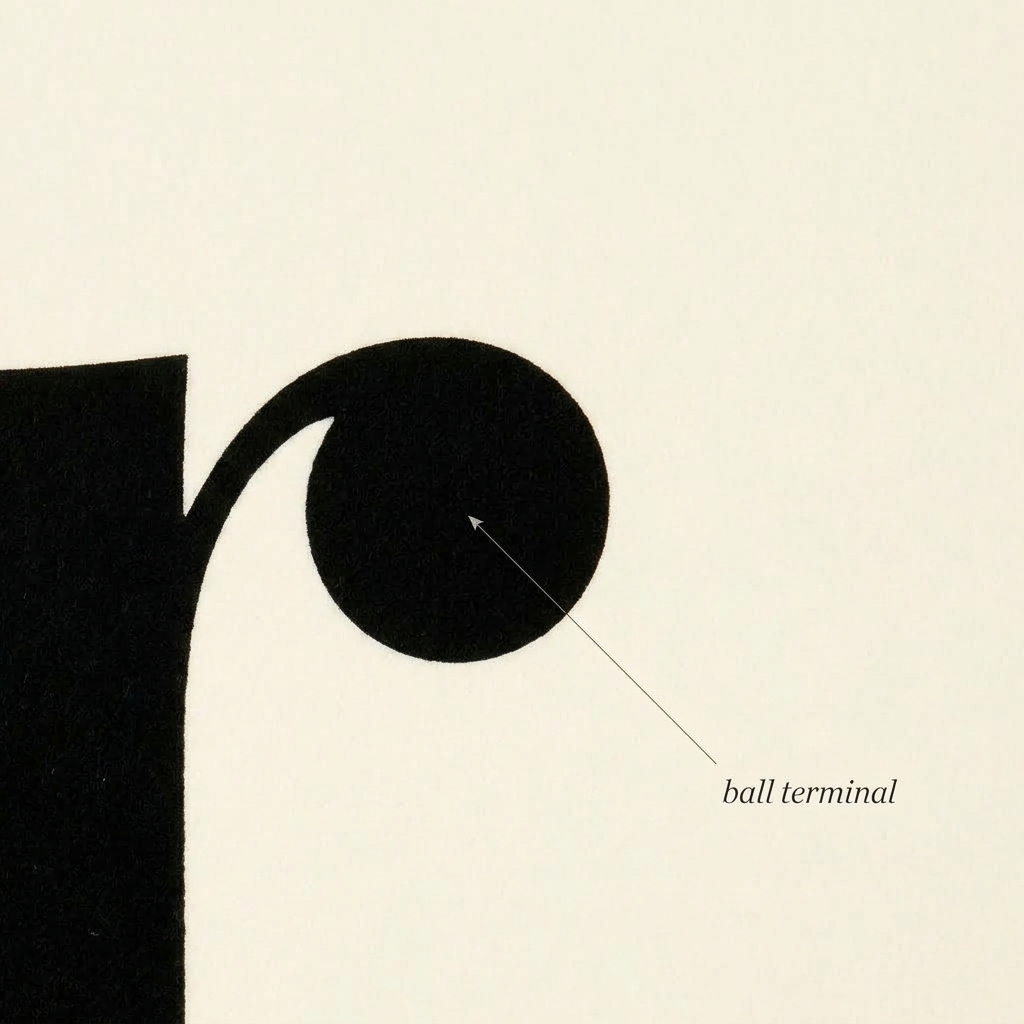
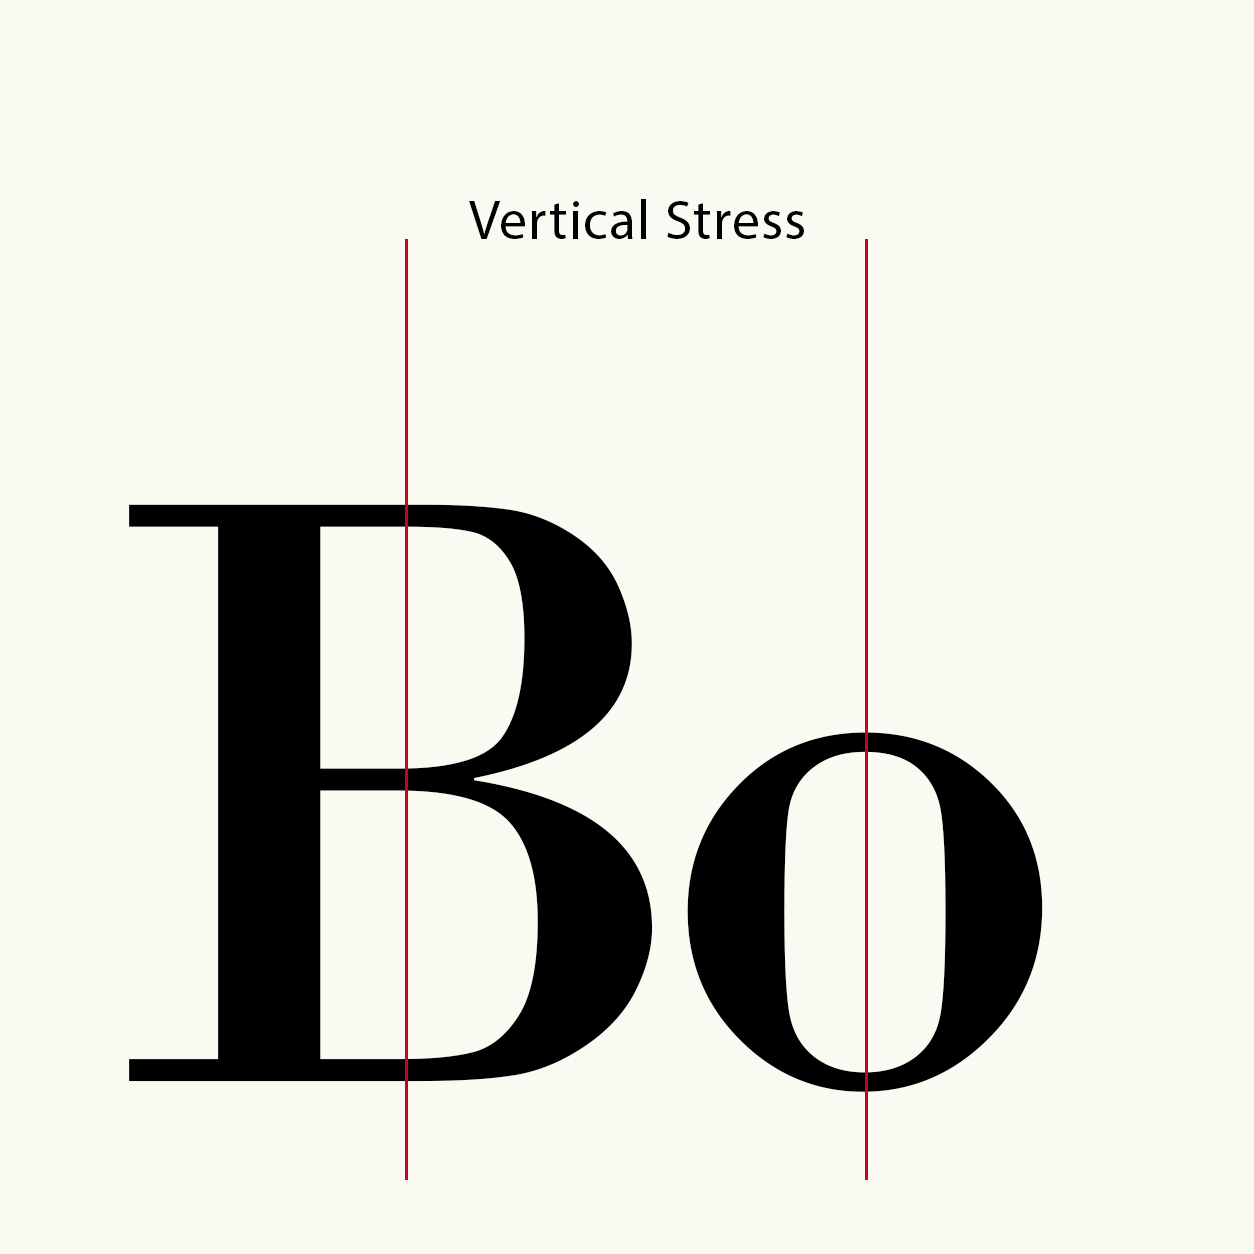
Replace Modern (Didone) second example photo and its prompt
The new modern-2.jpg shows vertical stress annotated on a B/o pair,
not a ball terminal like the previous photo, so the prompt is rewritten
to match: two curved strokes' thinnest points both falling on a
perfectly vertical line, grounded in the classification's own
diagnostics.axis: "vertical" field.

diff --git a/js/data.js b/js/data.js
@@ -233,7 +233,7 @@ const CLASSIFICATIONS = [
         image: "images/examples/modern-1.jpg",
       },
       {
-        prompt: "A tight crop on a stroke terminal ending in a small, perfectly round ball rather than tapering to a point",
+        prompt: "A magnified comparison of two curved strokes' thinnest points, both falling on a perfectly vertical line — no calligraphic lean at all, the mark of a ruled instrument rather than a broad-nib pen",
         image: "images/examples/modern-2.jpg",
       },
     ],
